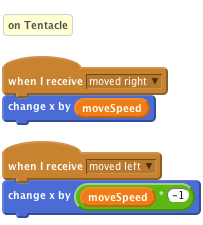
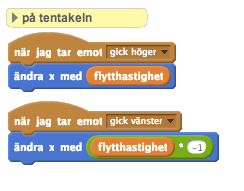
sv-SE_translations: Translated Movement Scratch Card to Swedish.

diff --git a/sv-SE/02_scratch/01/01-05 Make a Monster - Movement.html b/sv-SE/02_scratch/01/01-05 Make a Monster - Movement.html
@@ -1,0 +1,91 @@
+<!DOCTYPE html>
+<html class="world" lang="sv-SE">
+<head>
+    <meta charset="utf-8">
+    <meta name="viewport" content="width=device-width, initial-scale=1.0">
+
+    <meta name="google-site-verification" content="LAa8xdL-G6vOe9RSZnECSduS5m1BMiM8U2erQku5yIE" />
+
+    <title>Monsterfördjupningskort - Rörelser — Code Club World Projects</title>
+
+    <!--[if lt IE 9]><script src="http://html5shim.googlecode.com/svn/trunk/html5.js"></script><![endif]-->
+
+    <link rel="stylesheet" href="../../../css/master.min.css">
+  </head>
+
+  <body class="index-template world">
+    <header class="header" role="banner">
+      <a class="home-link" href="../../../index.html"><img alt="" class="logo" height="100" src="../../../img/ccw_logo.png"></a>
+      <h1 class="title">Monsterfördjupningskort - Rörelser</h1>
+      <span class="level-indicator">Nivå 4</span>
+    </header>
+
+    <nav class="breadcrumbs"><ul class="breadcrumbs-list"><li class="breadcrumbs-item"><a class="breadcrumbs-link" href="../../../index.html">Språk</a></li><li class="breadcrumbs-item"><a class="breadcrumbs-link" href="../../index.html">Svenska</a></li><li class="breadcrumbs-item"><a class="breadcrumbs-link" href="../index.html">Advancerad Scratch</a></li><li class="breadcrumbs-item current">Rörelser</li></ul></nav>
+
+    <main class="main lesson-steps" role="main">
+<section id="activity-checklist" class="level2 check">
+<h2>Checklista</h2>
+<ul>
+<li><p>
+  När ditt monster består av många olika <strong>sprites</strong> kommer du behöva säkerställa att alla sprites rör sig tillsammans. Hellre än att lägga till förflyttningskommando till alla dina sprites, kan du enkelt ansluta dina kontroller till din kroppssprite och <code class="blockbrown">skicka</code> events för att kontrollera vilken annan sprite som helst. När våran <strong>tentakelsprite</strong> (eller någon annan sprite för den delen!) tar emot ett <code class="blockbrown">gick höger</code> event, kan vi flytta den åt höger också.</p>
+<p><img src="94b6fa5696d8abb0c2bea8cbfa0211a94ae65887.png" alt="// på spökets kropp
+när [högerpil] trycks ned
+    ändra x med (flytthastighet)
+    skicka [gick höger]
+
+när [vänsterpil] trycks ned
+    ändra x med ((flytthastighet) * (-1))
+    skicka [gick vänster]" /></p>
+<p><img src="82d495745c01735b75c5fed231d2c6387250a88a.png" alt="// på tentakeln
+när jag tar emot [gick höger]
+    ändra x med (flytthastighet)
+
+när jag tar emot [gick vänster]
+    ändra x med ((flytthastighet) * (-1))" /></p></li>
+<li><p>Att <code class="blockbrown">skicka</code> event innebär också att om vi vill ändra på kommandona som styr förflyttningen, behöver vi bara ändra på ett av scripten. <strong>Kika på detta exempel:</strong></p>
+<p><img src="3600bfc7234038610fc3fefb466955a3ee02362a.png" alt="// på spökets kropp
+när [högerpil] trycks ned
+    ändra x med (flytthastighet)
+    peka i (90 graders) riktning
+    studsa, vid kanten
+    om (inte (rör [kant]?))
+        skicka [gick höger]
+        skicka [gick]
+    slut
+
+när [vänsterpil] trycks ned
+    ändra x med ((flytthastighet) * (-1))
+    peka i (-90 graders) riktning
+    studsa, vid kanten
+    om (inte (rör [kant]?))
+        skicka [gick vänster]
+        skicka [gick]
+    slut" /></p></li>
+<li><p>Här säger vi åt kroppen att titta åt det håll som det rör sig (se till att din sprites riktning är satt till att <strong> "bara titta åt höger och vänster"</strong>) och stanna och vända sig om när den kolliderar med skärmens kant. Du kommer också märka att vi har omslutit våra sändningar i ett <code class="blockyellow">om</code>-block, vi vill bara att de andra kroppsdelarna ska flytta sig om kroppen inte är på skärmens kant. <strong>Om du bestämmer dig för att lägga till animering i rörelsen, måste alla andra rörelse ta en sekund också (använd ett <code class="blockyellow">vänta</code>-block för att se till att de alla är i fas).</strong></p></li>
+<li><p>
+  Du kan också animera din kropps sprite genom att byta <code class="blockpurple">klädsel</code>, gör det genom att byta varje gång ett <strong>gick</strong> event tas emot.</p>
+<p><img src="7ccf9082e79780a1622af3dc91f78d89ca0e93b1.png" alt="när jag tar emot [gick höger]
+    nästa klädsel" /></p></li>
+</ul>
+</section>
+    </main>
+
+    <aside class="legal-notice copyright">
+      <p>These projects are for use outside the UK only. More information is available on our website at <a href="http://www.codeclub.org.uk/">http://www.codeclub.org.uk/</a>. This coursework is developed in the open on GitHub (<a href="https://github.com/CodeClub/">https://github.com/CodeClub</a>), come and join us!</p>
+      <p>&copy; 2014 Code Club. This work is licensed under a <a rel="license" href="http://creativecommons.org/licenses/by-nc-sa/4.0/">BY-NC-SA 4.0 International License</a>.</p>
+    </aside>
+
+    <!-- Google Analytics -->
+    <script type="text/javascript">
+      var _gaq = _gaq || [];
+      _gaq.push(['_setAccount', 'UA-30750176-5']);
+      _gaq.push(['_setDomainName', 'projects.codeclubworld.org']);
+      _gaq.push(['_trackPageview']);
+      (function() {
+        var ga = document.createElement('script'); ga.type = 'text/javascript'; ga.async = true;
+        ga.src = ('https:' == document.location.protocol ? 'https://ssl' : 'http://www') + '.google-analytics.com/ga.js';
+        var s = document.getElementsByTagName('script')[0]; s.parentNode.insertBefore(ga, s);
+      })();
+    </script>
+  </body>
+</html>
